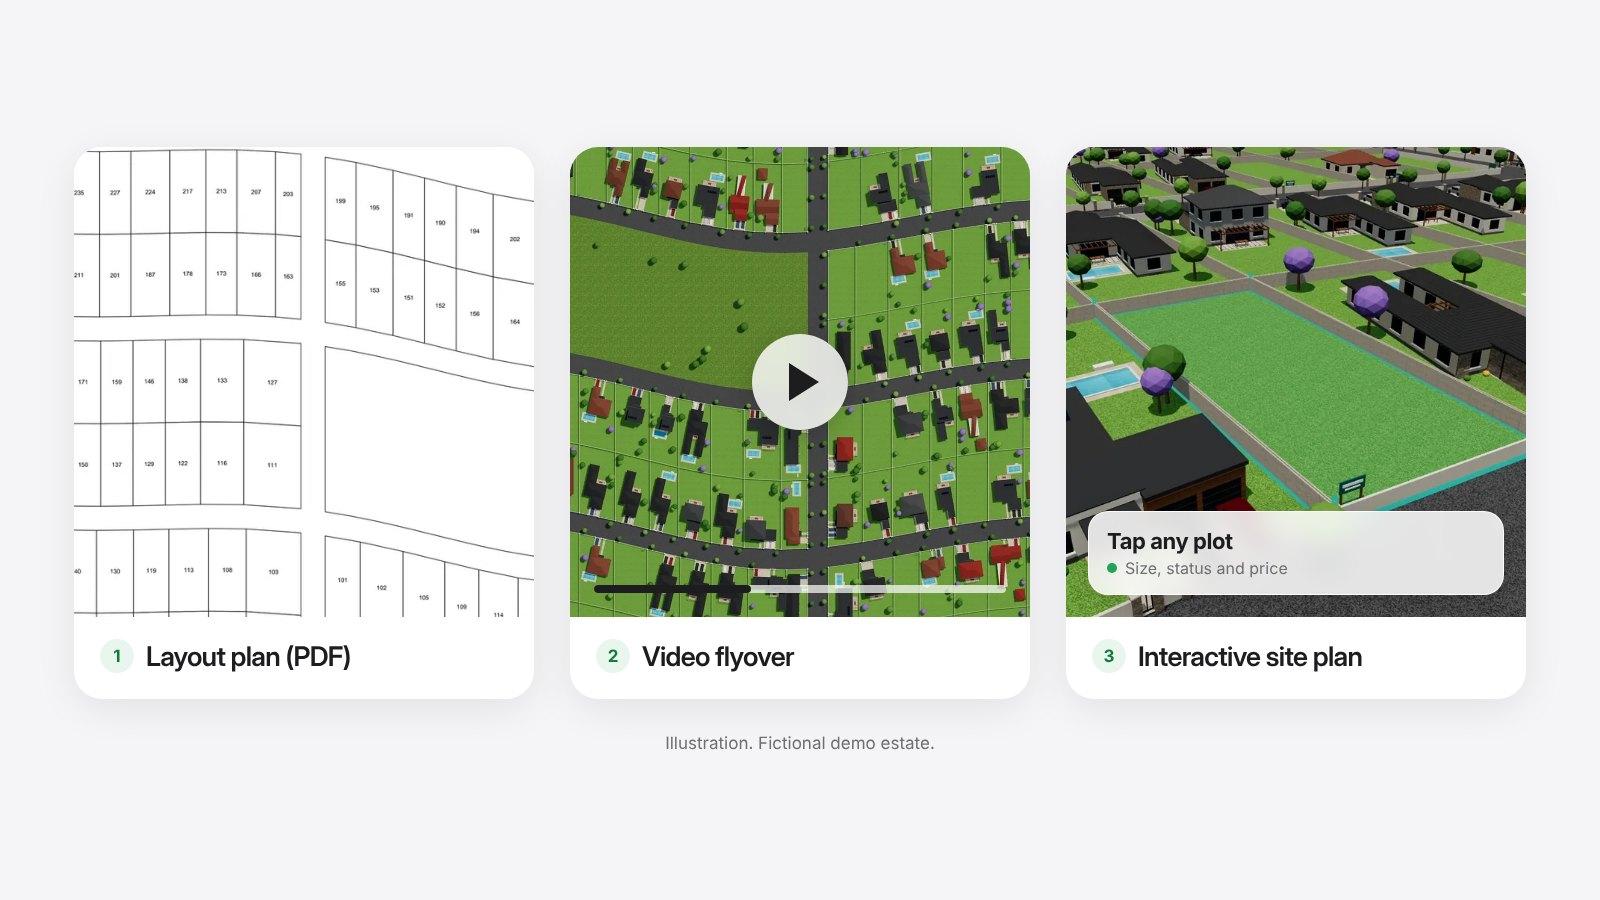
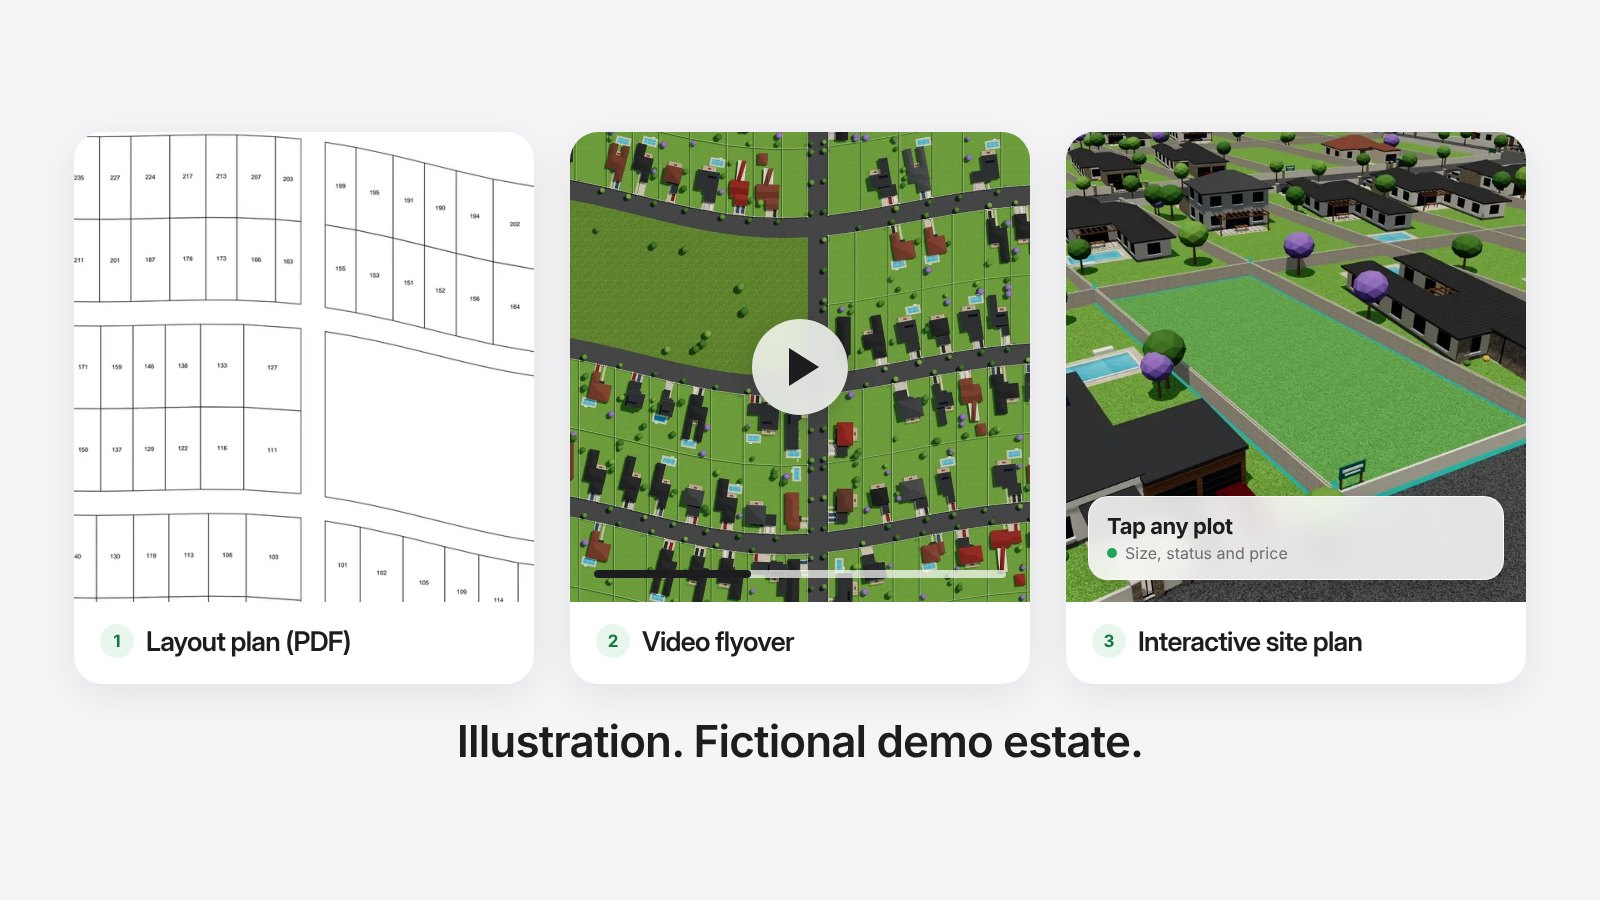
fix(blog): reviewer fixes for the 9 Dec site plan post
Save before buyers see changes, clearer illustration wording, a new FAQ
that doesn't repeat the 9 Nov post, the whole-estate flyover in the views
and the FAQ, and a larger caption on the cover.

Claude-Session: https://claude.ai/code/session_01WkeDyf4QASFNckaGJ3eusk

diff --git a/src/content/blog/interactive-site-plan-pdf-or-video.md b/src/content/blog/interactive-site-plan-pdf-or-video.md
@@ -60,7 +60,7 @@ A video flyover is a short film of the estate from the air: drone footage of the
 
 - **The camera decides what the buyer sees.** A buyer can't stop over plot 145 and look at it from the street. If their plot isn't in the shot, the video can't help with it.
 - **It can't show status or prices.** And if it does, those details go out of date the day a plot sells, and changing them means editing the video again.
-- **It shows one moment.** Drone footage shows the site on the day it was filmed. A 3D animation shows what is planned. Both are useful; buyers should be told which one they are watching, because 3D homes are illustrations, not photos of a site.
+- **It shows one moment.** Drone footage shows the site on the day it was filmed. A 3D animation shows what is planned. Both are useful. Tell buyers which one they are watching: 3D homes are illustrations, not photos of the site.
 
 ## The interactive site plan
 
@@ -111,12 +111,12 @@ In Alfa Maps, buyers can:
 - **Find a plot** by number, or filter by status and size.
 - **See status at a glance:** plots for sale are green, reserved plots amber and sold plots red.
 - **Check the facts** of each plot: size, frontage, road width, position and boundary lengths.
-- **Look around** in the estate map, street, aerial, garden, site plan and free-roam views.
+- **Look around** the whole estate, or switch to the estate map, street, aerial, garden, site plan and free-roam views.
 - **See the numbers**: cash price, deposit, fees and monthly payments for each payment plan you offer.
 - **Download a plot pack**, a PDF of one plot with its site plan and boundary lengths, views, price and payment plans, and who to talk to. So the buyer still gets a document to keep and share.
 - **Enquire in one tap**, or copy a link to the plot.
 
-Your team marks plots reserved or sold and changes prices in the admin view, and buyers see the change straight away. Alfa Maps doesn't make videos; if you have a flyover, link it to the estate, and the estate back to it.
+Your team marks plots reserved or sold and changes prices in the admin view. When they save, the next buyer to open the estate sees the change. Alfa Maps doesn't make videos; if you have a flyover, link it to the estate, and the estate back to it.
 
 The quickest way to judge an interactive site plan is to try one. Our [demo estate](https://maps.globalalfabet.com/demo/) is fictional, with 170 plots, and works on your phone.
 
@@ -124,8 +124,8 @@ The quickest way to judge an interactive site plan is to try one. Our [demo esta
 
 ## In short
 
-**What is an interactive site plan?**
-An online version of an estate layout. Buyers open it from a link and tap a plot to see its details, such as size, status and price.
+**How is an interactive site plan different from a PDF?**
+A PDF layout plan is a fixed drawing: every plot looks the same, and it doesn't change when plots sell. An interactive site plan opens from a link, lets buyers tap a plot to see its size, status and price, and shows the latest status when the developer keeps it up to date.
 
 **Is an interactive site plan better than a PDF layout plan?**
 For choosing a plot, usually yes: it shows which plots are still for sale and puts each plot's facts in one place. For confirming a purchase, no: the approved layout plan is the record a buyer's lawyer checks.
@@ -137,4 +137,4 @@ Rarely. It shows the estate well, but buyers can't stop on their own plot, and i
 Most estates benefit from each: video to get attention, an interactive site plan to help buyers choose, and the layout plan to confirm.
 
 **Does Alfa Maps make video flyovers?**
-No. Alfa Maps is an interactive 3D site plan, built from your layout plan and plot schedule, with a downloadable PDF plot pack for each plot.
+No. Alfa Maps doesn't make videos. Buyers can fly over the whole estate in 3D themselves, then pick a plot. Each plot has a downloadable PDF plot pack.
